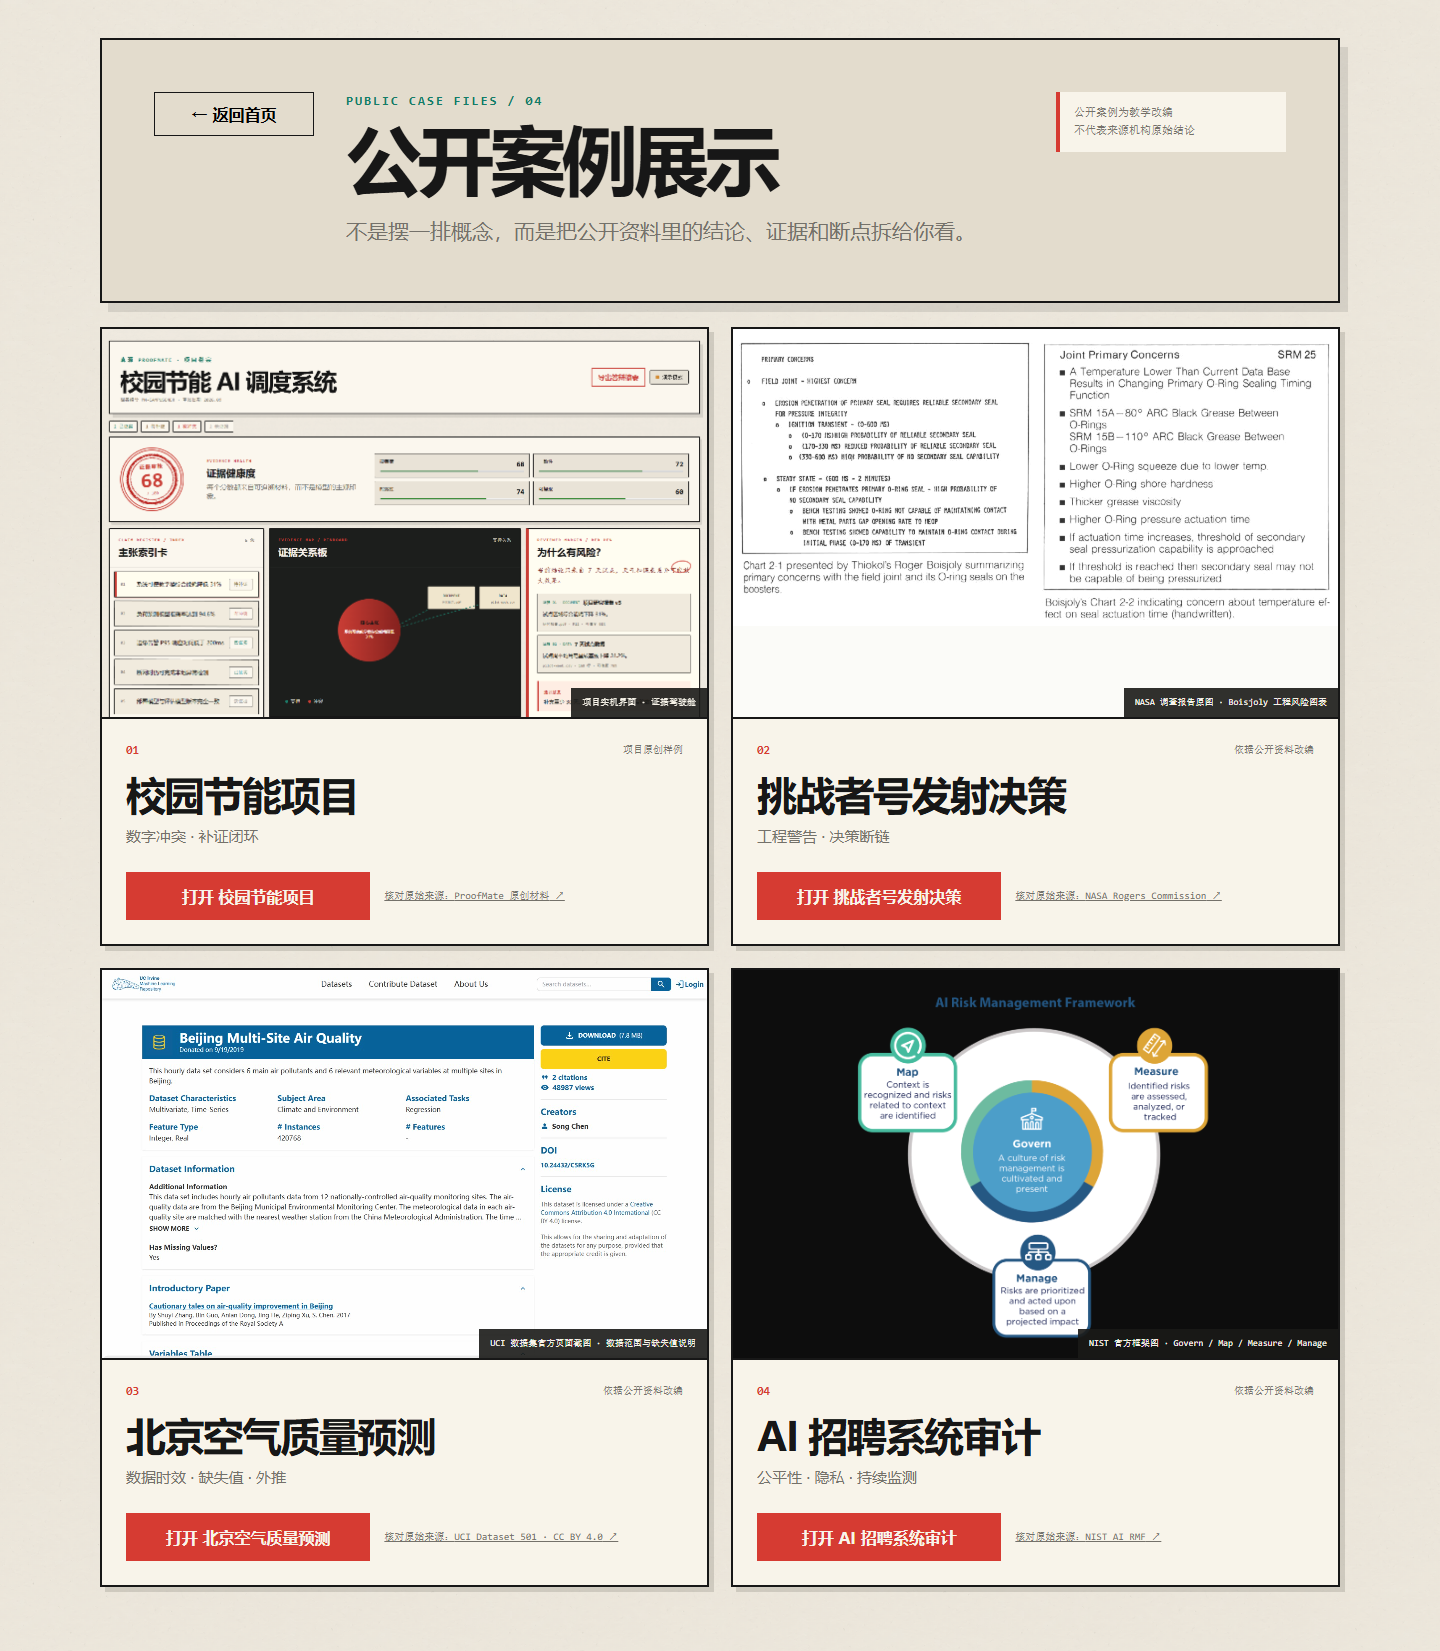
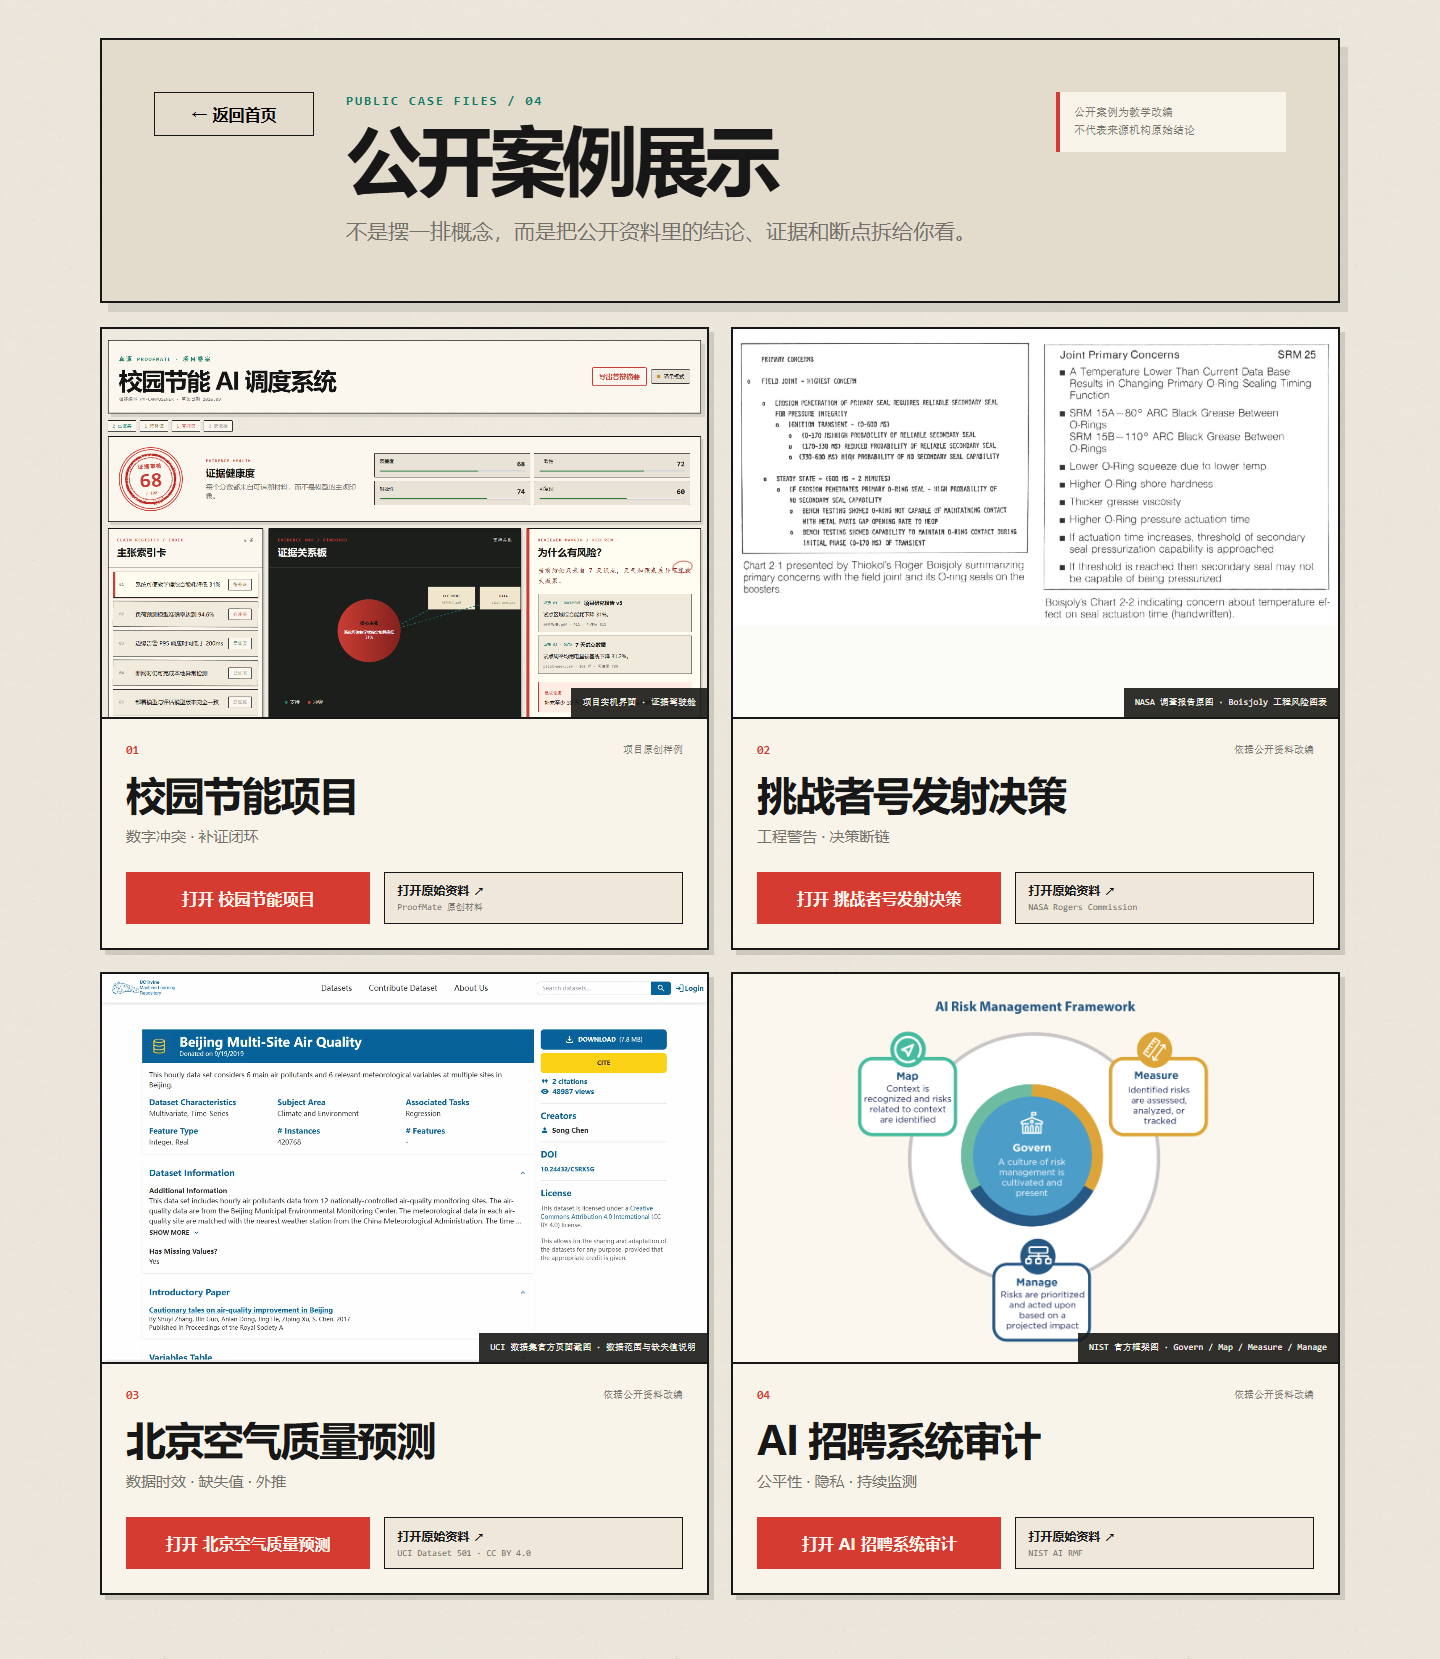
feat: make local analysis informative and observable

diff --git a/src/styles/global.css b/src/styles/global.css
@@ -249,11 +249,11 @@ button:focus-visible, input:focus-visible { outline: 3px double var(--audit-red)
 .case-card { min-width: 0; border: 2px solid var(--ink); background: var(--paper-raised); box-shadow: 5px 5px 0 rgba(25,25,23,.14); overflow: hidden; }
 .case-visual { position: relative; height: clamp(260px,31vw,390px); margin: 0; border-bottom: 2px solid var(--ink); background: #d7d0c3; overflow: hidden; }
 .case-visual img { width: 100%; height: 100%; object-fit: cover; object-position: top center; display: block; filter: saturate(.88) contrast(1.03); transition: transform .25s ease; }.case-card:hover .case-visual img { transform: scale(1.015); }
-.case-card:nth-child(2) .case-visual img { object-fit: contain; background: #f7f7f4; }.case-card:nth-child(4) .case-visual img { object-fit: contain; padding: 18px; background: #101010; }
+.case-card:nth-child(2) .case-visual img { object-fit: contain; background: #f7f7f4; }.case-card:nth-child(4) .case-visual, .case-card:nth-child(4) .case-visual img { background: var(--paper-raised); }.case-card:nth-child(4) .case-visual img { object-fit: contain; padding: 18px; }
 .case-visual figcaption { position: absolute; right: 0; bottom: 0; max-width: 90%; padding: 8px 11px; color: var(--paper-raised); background: rgba(25,25,23,.9); font: 9px/1.4 var(--font-mono); }
 .case-card-body { padding: 24px; }.case-card-meta { display: flex; justify-content: space-between; gap: 16px; align-items: center; }.case-card-meta span { color: var(--audit-red); font: 800 12px var(--font-mono); }.case-card-meta small { color: var(--pencil); font: 10px var(--font-mono); }
 .case-card h2 { margin: 14px 0 8px; font-size: clamp(27px,3vw,40px); line-height: 1.15; letter-spacing: -.035em; }.case-card-body > p { margin: 0; color: var(--pencil); font-size: 15px; line-height: 1.55; }
-.case-card-actions { display: grid; grid-template-columns: minmax(180px,.9fr) minmax(0,1.1fr); gap: 14px; align-items: center; margin-top: 24px; }.case-card-actions button { min-height: 48px; padding: 10px 14px; border: 2px solid var(--audit-red); color: var(--paper-raised); background: var(--audit-red); font-weight: 800; }.case-card-actions a { color: var(--pencil); font: 10px/1.5 var(--font-mono); overflow-wrap: anywhere; }
+.case-card-actions { display: grid; grid-template-columns: minmax(180px,.9fr) minmax(0,1.1fr); gap: 14px; align-items: stretch; margin-top: 24px; }.case-card-actions button { min-height: 52px; padding: 10px 14px; border: 2px solid var(--audit-red); color: var(--paper-raised); background: var(--audit-red); font-weight: 800; }.case-source-link { display: flex; min-height: 52px; flex-direction: column; justify-content: center; padding: 8px 12px; border: 1px solid var(--ink); color: var(--ink); background: #eee7da; text-decoration: none; overflow-wrap: anywhere; }.case-source-link span { font-size: 12px; font-weight: 800; }.case-source-link small { margin-top: 3px; color: var(--pencil); font: 9px/1.4 var(--font-mono); }.case-source-link:hover { color: var(--paper-raised); background: var(--ink); }.case-source-link:hover small { color: #d7d0c3; }
 
 @media (max-width: 760px) {
   .landing-shell { padding: 16px 12px; overflow: visible; }
@@ -291,7 +291,7 @@ button:focus-visible, input:focus-visible { outline: 3px double var(--audit-red)
 }
 
 @media (prefers-reduced-motion: reduce) {
-  .scanner-line, .audit-stamp.is-new { animation: none !important; }
+  .scanner-line, .audit-stamp.is-new, .analysis-pulse, .is-analyzing .instrument-label i { animation: none !important; }
 }
 
 /* Research archive desk */
@@ -324,5 +324,8 @@ button:focus-visible, input:focus-visible { outline: 3px double var(--audit-red)
 /* Local/cloud review instruments */
 .runtime-panel { overflow: hidden; }.runtime-grid { grid-template-columns: .72fr 1fr 1fr; background: #ddd6c8; }.runtime-grid article { min-width: 0; border-color: var(--ink); }.runtime-grid .runtime-mode { color: var(--ink); background: #e6dfd2; }.runtime-grid .runtime-mode span, .runtime-grid .runtime-mode p { color: var(--pencil); }
 .runtime-instrument { color: #f4f0e8; background: var(--ink-soft); }.runtime-instrument .instrument-label { display: flex; align-items: center; gap: 7px; color: #9adbc7; }.instrument-label i { width: 8px; height: 8px; background: var(--instrument-green); }.runtime-instrument h3 { margin: 13px 0 3px; font-size: 19px; }.runtime-grid .runtime-instrument strong { margin-top: 0; color: #f4f0e8; font: 11px var(--font-mono); }.runtime-grid .runtime-instrument p { min-width: 0; color: #bbb9af; overflow-wrap: anywhere; white-space: normal; }.runtime-instrument button { min-height: 44px; margin-top: 12px; padding: 9px 12px; border: 1px solid #8dd5bd; border-radius: 2px; color: #baf0de; background: transparent; font-weight: 700; }.runtime-instrument button:disabled { opacity: .58; cursor: wait; }
-.runtime-results { position: relative; min-width: 0; margin: 16px; padding: 22px 24px; border: 1px solid var(--ink); border-top: 1px solid var(--ink); color: var(--ink); background: #fff9e8; box-shadow: 3px 3px 0 rgba(23,23,23,.12); transform: rotate(-.18deg); }.runtime-results::before { content: ''; position: absolute; top: -8px; left: 48%; width: 62px; height: 16px; background: rgba(190,177,143,.6); transform: rotate(2deg); }.runtime-results strong { color: var(--audit-red); font-size: 13px; letter-spacing: .12em; }.runtime-results p { color: var(--pencil); font-size: 11px; }.runtime-results ul, .runtime-results li { color: var(--ink); }.runtime-results li, .runtime-results strong, .runtime-results p { min-width: 0; overflow-wrap: anywhere; white-space: normal; }
+.analysis-progress { display: flex; gap: 11px; align-items: center; min-height: 58px; margin-top: 13px; padding: 10px 12px; border: 1px solid #568878; background: #182a25; }.analysis-progress div { display: grid; gap: 5px; }.analysis-progress strong { color: #d9fff2 !important; font-size: 12px !important; }.analysis-progress small { color: #93c9b7; font: 9px/1.4 var(--font-mono); }.analysis-pulse { width: 10px; height: 10px; flex: 0 0 auto; border-radius: 50%; background: #54dbb1; box-shadow: 0 0 0 0 rgba(84,219,177,.55); animation: analysis-pulse 1.4s ease-out infinite; }.is-analyzing .instrument-label i { animation: analysis-blink .9s steps(2,end) infinite; }
+@keyframes analysis-pulse { 70% { box-shadow: 0 0 0 9px rgba(84,219,177,0); } 100% { box-shadow: 0 0 0 0 rgba(84,219,177,0); } }
+@keyframes analysis-blink { 50% { opacity: .25; } }
+.runtime-results { position: relative; min-width: 0; margin: 16px; padding: 22px 24px; border: 1px solid var(--ink); border-top: 1px solid var(--ink); color: var(--ink); background: #fff9e8; box-shadow: 3px 3px 0 rgba(23,23,23,.12); transform: rotate(-.18deg); }.runtime-results::before { content: ''; position: absolute; top: -8px; left: 48%; width: 62px; height: 16px; background: rgba(190,177,143,.6); transform: rotate(2deg); }.runtime-results strong { color: var(--audit-red); font-size: 13px; letter-spacing: .12em; }.runtime-results p { color: var(--pencil); font-size: 11px; }.runtime-results ul, .runtime-results li { color: var(--ink); }.runtime-results li, .runtime-results strong, .runtime-results p { min-width: 0; overflow-wrap: anywhere; white-space: pre-line; }
 @media (max-width: 720px) { .runtime-grid { grid-template-columns: minmax(0,1fr); }.runtime-grid article { border-right: 0; border-bottom: 1px solid #5d5d56; }.runtime-results { margin: 12px; padding: 20px 16px; } }

diff --git a/src/features/settings/RuntimePanel.tsx b/src/features/settings/RuntimePanel.tsx
@@ -1,10 +1,17 @@
 import { useEffect, useState } from 'react';
 
+function formatElapsed(seconds: number) {
+  const minutes = Math.floor(seconds / 60).toString().padStart(2, '0');
+  const remainder = (seconds % 60).toString().padStart(2, '0');
+  return `${minutes}:${remainder}`;
+}
+
 export function RuntimePanel({ text, isDemo = false, onAcceptLocalInsight }: { text: string; isDemo?: boolean; onAcceptLocalInsight?: (summary: string) => void }) {
   const [local, setLocal] = useState('正在探测端侧服务…');
   const [cloud, setCloud] = useState('百炼 API · 等待检测');
   const [busy, setBusy] = useState(false);
   const [localBusy, setLocalBusy] = useState(false);
+  const [localElapsed, setLocalElapsed] = useState(0);
   const [insights, setInsights] = useState<string[]>([]);
   const [localInsight, setLocalInsight] = useState('');
   const [localAccepted, setLocalAccepted] = useState(false);
@@ -14,6 +21,11 @@ export function RuntimePanel({ text, isDemo = false, onAcceptLocalInsight }: { t
       setLocal(result.state === 'service_ready' ? `OpenVINO · ${device}` : 'OpenVINO · 服务未启动');
     }).catch(() => setLocal('OpenVINO · 服务未启动'));
   }, []);
+  useEffect(() => {
+    if (!localBusy) return;
+    const timer = window.setInterval(() => setLocalElapsed((value) => value + 1), 1000);
+    return () => window.clearInterval(timer);
+  }, [localBusy]);
   const analyze = async () => {
     setBusy(true);
     try {
@@ -26,6 +38,7 @@ export function RuntimePanel({ text, isDemo = false, onAcceptLocalInsight }: { t
     } catch { setCloud('百炼 Qwen · 服务连接失败'); } finally { setBusy(false); }
   };
   const analyzeLocal = async () => {
+    setLocalElapsed(0);
     setLocalBusy(true);
     try {
       const response = await fetch('/api/local/analyze', { method: 'POST', headers: { 'Content-Type': 'application/json' }, body: JSON.stringify({ text }) });
@@ -44,7 +57,7 @@ export function RuntimePanel({ text, isDemo = false, onAcceptLocalInsight }: { t
       <div className="panel-heading"><div><p className="section-kicker">RUNTIME MATRIX</p><h2 id="runtime-title">端云运行状态</h2></div><span>透明可查</span></div>
       <div className="runtime-grid">
         <article className="is-on runtime-mode"><span>当前档位</span><strong>{isDemo ? '演示模式' : '真实材料模式'}</strong><p>{isDemo ? '内置项目回放；可用右侧按钮验证实时模型。' : '浏览器已读取真实材料；模型能力按需显式启用。'}</p></article>
-        <article className="runtime-instrument"><span className="instrument-label"><i aria-hidden="true" />DEVICE / LOCAL</span><h3>本地分析仪</h3><strong>Qwen3-4B INT4</strong><p>{local}</p><button type="button" onClick={analyzeLocal} disabled={localBusy}>{localBusy ? '分析中…' : '使用端侧模型分析'}</button></article>
+        <article className={`runtime-instrument${localBusy ? ' is-analyzing' : ''}`}><span className="instrument-label"><i aria-hidden="true" />DEVICE / LOCAL</span><h3>本地分析仪</h3><strong>Qwen3-4B INT4</strong><p>{local}</p>{localBusy && <div className="analysis-progress" role="status" aria-live="polite"><span className="analysis-pulse" aria-hidden="true" /><div><strong>正在分析 · {formatElapsed(localElapsed)}</strong><small>{localElapsed < 4 ? '正在读取材料与定位主张' : localElapsed < 12 ? '正在核对证据与风险边界' : '正在整理可执行的补证建议'}</small></div></div>}<button type="button" onClick={analyzeLocal} disabled={localBusy}>{localBusy ? `分析中 ${formatElapsed(localElapsed)}` : '使用端侧模型分析'}</button></article>
         <article className="runtime-instrument"><span className="instrument-label"><i aria-hidden="true" />CLOUD / REVIEW</span><h3>云端复核仪</h3><strong>Qwen</strong><p>{cloud}</p><button type="button" onClick={analyze} disabled={busy}>{busy ? '核验中…' : '检测并分析当前材料'}</button></article>
       </div>
       {insights.length > 0 && <div className="runtime-results" data-testid="human-review-slip" aria-live="polite"><strong>待人工确认</strong><p>以下是实时模型建议，尚未写入已确认事实。</p><ul>{insights.map((item) => <li key={item}>{item}</li>)}</ul>{localInsight && onAcceptLocalInsight && <button type="button" className="accept-insight" disabled={localAccepted} onClick={() => { onAcceptLocalInsight(localInsight); setLocalAccepted(true); }}>{localAccepted ? '已加入档案' : '确认并加入档案'}</button>}</div>}

diff --git a/src/features/settings/RuntimePanel.test.tsx b/src/features/settings/RuntimePanel.test.tsx
@@ -50,6 +50,24 @@ it('keeps a long local result on a human review slip', async () => {
   vi.unstubAllGlobals();
 });
 
+it('shows a live elapsed timer while local analysis is running', async () => {
+  vi.useFakeTimers();
+  vi.stubGlobal('fetch', vi.fn(async (url: string) => {
+    if (url.includes('local/status')) return { json: async () => ({ state: 'service_ready', model_state: 'ready' }) };
+    return new Promise(() => undefined);
+  }));
+  render(<RuntimePanel text="测试材料" />);
+
+  screen.getByRole('button', { name: '使用端侧模型分析' }).click();
+  await vi.advanceTimersByTimeAsync(2_000);
+
+  expect(screen.getByRole('status')).toHaveTextContent('正在分析');
+  expect(screen.getByRole('status')).toHaveTextContent('00:02');
+  expect(screen.getByRole('button', { name: /分析中 00:02/ })).toBeDisabled();
+  vi.useRealTimers();
+  vi.unstubAllGlobals();
+});
+
 it('lets a reviewer add a local model finding to the evidence dossier', async () => {
   const accept = vi.fn();
   vi.stubGlobal('fetch', vi.fn(async (url: string) => ({

diff --git a/src/features/cases/CaseGallery.tsx b/src/features/cases/CaseGallery.tsx
@@ -32,7 +32,7 @@ export function CaseGallery({ cases, onBack, onSelect }: CaseGalleryProps) {
               <p>{item.focus}</p>
               <div className="case-card-actions">
                 <button type="button" onClick={() => onSelect(item)}>打开 {item.shortName}</button>
-                <a href={item.sourceUrl} target="_blank" rel="noreferrer">核对原始来源：{item.sourceLabel} ↗</a>
+                <a className="case-source-link" href={item.sourceUrl} target="_blank" rel="noopener noreferrer"><span>打开原始资料 ↗</span><small>{item.sourceLabel}</small></a>
               </div>
             </div>
           </article>

diff --git a/src/App.test.tsx b/src/App.test.tsx
@@ -21,6 +21,7 @@ it('opens the case gallery as a separate page and can return home', async () => 
   expect(screen.getByRole('heading', { name: '公开案例展示' })).toBeVisible();
   expect(screen.getByRole('button', { name: /挑战者号发射决策/ })).toBeEnabled();
   expect(screen.getAllByText(/依据公开资料改编/)).toHaveLength(3);
+  expect(screen.getAllByRole('link', { name: /打开原始资料/ })).toHaveLength(4);
   await userEvent.click(screen.getByRole('button', { name: '返回首页' }));
   expect(screen.getByRole('heading', { name: '每个结论，都能找到它的证据。' })).toBeVisible();
 });

diff --git a/local-ai/app/model_runtime.py b/local-ai/app/model_runtime.py
@@ -56,11 +56,15 @@ class ModelRuntime:
     def analyze(self, text: str) -> dict[str, Any]:
         pipeline = self._load()
         prompt = (
-            "你是真源 ProofMate 的端侧证据分析器。只依据给定文本，"
-            "提取一条可验证主张、潜在风险和需要的证据，使用简洁中文回答。"
-            "不要展示推理过程。 /no_think\n\n材料：" + text
+            "你是真源 ProofMate 的端侧证据审阅员。只依据给定材料完成一次认真、可执行的审阅，"
+            "不要补造材料中没有的事实，也不要展示推理过程。请使用简洁中文，按以下四段输出：\n"
+            "【核心结论】提取 1 至 3 条最需要核验的主张，并保留关键数字；\n"
+            "【证据依据】指出材料中已经出现的依据，以及它能证明到什么程度；\n"
+            "【风险与边界】说明冲突、缺口、时效性或外推风险；\n"
+            "【下一步补证】给出 2 至 4 条具体可执行动作，说明需要什么材料。\n"
+            "总长度控制在 300 至 500 个中文字符。 /no_think\n\n材料：" + text
         )
-        output = pipeline.generate(prompt, max_new_tokens=160, do_sample=False)
+        output = pipeline.generate(prompt, max_new_tokens=420, do_sample=False)
         summary = re.sub(r"<think>.*?</think>", "", str(output), flags=re.DOTALL).strip()
         return {"summary": summary, "signals": ["openvino-local-inference"]}
 

diff --git a/local-ai/tests/test_model_runtime.py b/local-ai/tests/test_model_runtime.py
@@ -23,5 +23,9 @@ def test_analysis_disables_thinking_and_returns_only_final_answer(tmp_path: Path
     result = runtime.analyze("七天节能 31%，但没有对照组。")
 
     assert "/no_think" in pipeline.prompt
-    assert pipeline.options == {"max_new_tokens": 160, "do_sample": False}
+    assert pipeline.options == {"max_new_tokens": 420, "do_sample": False}
+    assert "核心结论" in pipeline.prompt
+    assert "证据依据" in pipeline.prompt
+    assert "风险与边界" in pipeline.prompt
+    assert "下一步补证" in pipeline.prompt
     assert result["summary"] == "主张：节能数据需要对照组。"
